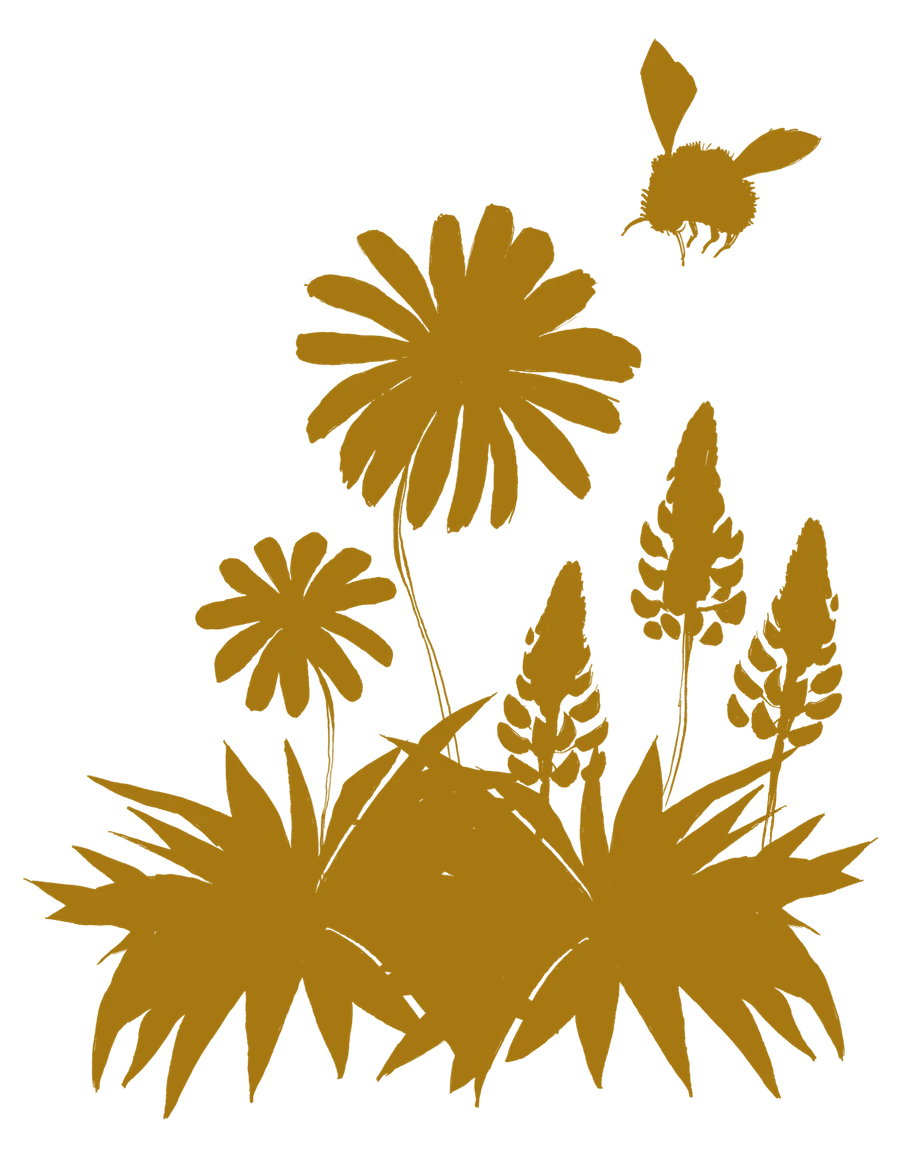
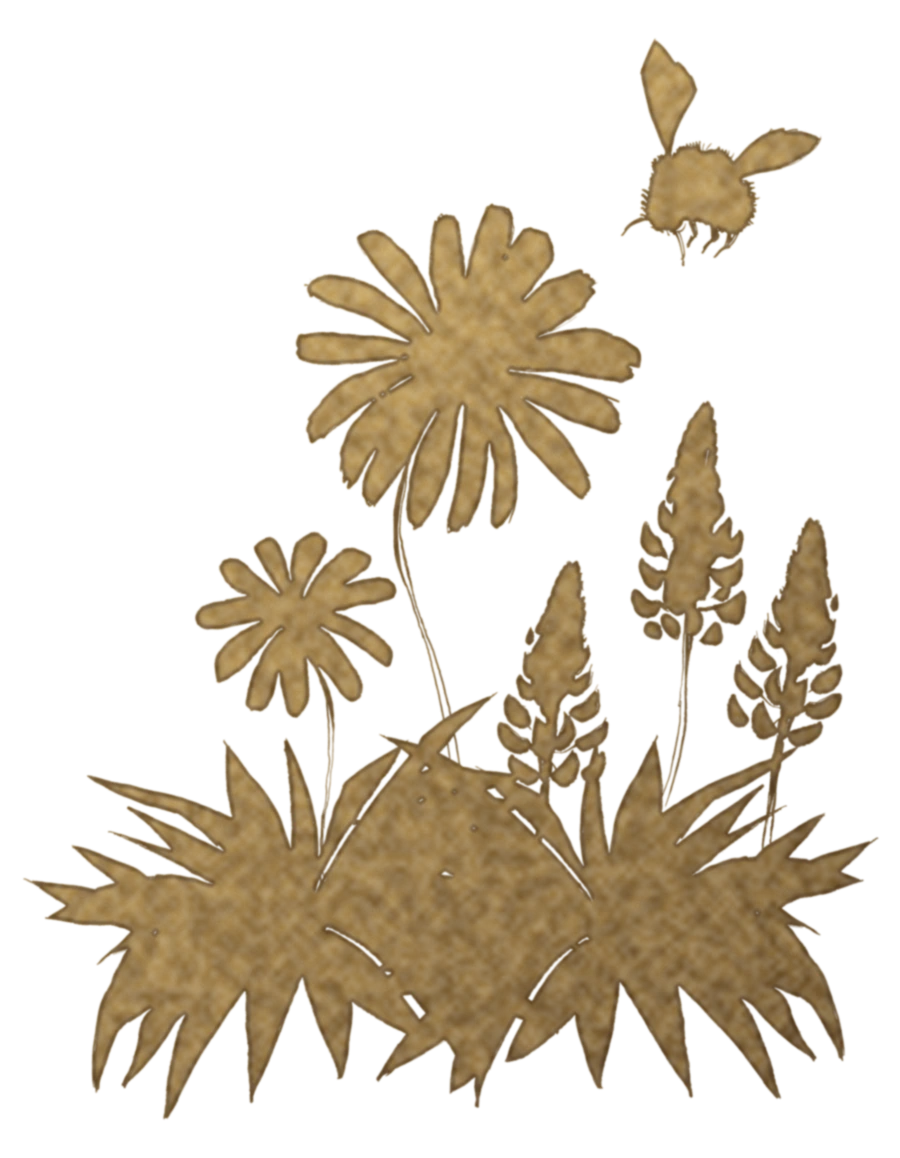
Restore hero's original bee/honeycomb decorations, repaint flower patch
The video and new corner clipart were meant to be additive, but the prior
commit accidentally dropped the existing floating bee illustrations,
honeycomb-branch corner art, and honey-drip divider — brought them all
back layered above the video overlay, repositioning the one bee that
would have collided with the new flower patch.

Also redid the flower patch recolor: the first pass was a flat solid
gold silhouette, not a match for the watercolor illustrations already on
site. Rebuilt it with directional shading, mottled pigment variation, and
feathered edges to read as an actual painted wash instead of a flat tint.

Hive-on-stilts scaled up and repositioned to bleed off the right edge,
matching the flower patch's off-frame treatment on the left.

diff --git a/components/Hero.tsx b/components/Hero.tsx
@@ -17,6 +17,39 @@ export default function Hero() {
       <div className="absolute inset-0 bg-ink-deep/55" />
 
       <Image
+        src="/images/illustrations/honeycomb-branch-1.webp"
+        alt=""
+        width={700}
+        height={253}
+        aria-hidden
+        className="pointer-events-none absolute -right-16 -top-6 hidden w-64 rotate-6 opacity-90 sm:block sm:w-80 md:w-[26rem]"
+      />
+      <Image
+        src="/images/illustrations/bee-2.webp"
+        alt=""
+        width={900}
+        height={632}
+        aria-hidden
+        className="pointer-events-none absolute left-[6%] top-20 hidden w-16 -rotate-12 sm:block sm:w-20 md:top-28 md:w-24"
+      />
+      <Image
+        src="/images/illustrations/bee-4.webp"
+        alt=""
+        width={2000}
+        height={1741}
+        aria-hidden
+        className="pointer-events-none absolute right-[10%] top-40 hidden w-20 rotate-12 sm:block sm:w-24 md:w-28"
+      />
+      <Image
+        src="/images/illustrations/bee-1.webp"
+        alt=""
+        width={1856}
+        height={1750}
+        aria-hidden
+        className="pointer-events-none absolute bottom-[26rem] left-[16%] hidden w-16 rotate-6 sm:block md:w-20"
+      />
+
+      <Image
         src="/images/illustrations/flower-patch-gold.webp"
         alt=""
         width={900}
@@ -30,7 +63,7 @@ export default function Hero() {
         width={900}
         height={1040}
         aria-hidden
-        className="pointer-events-none absolute right-4 bottom-0 hidden w-40 sm:block md:w-56"
+        className="pointer-events-none absolute -right-10 bottom-0 hidden w-64 sm:block md:w-80"
       />
 
       <div className="relative mx-auto max-w-4xl px-6 py-24 text-center sm:py-32">
@@ -48,7 +81,17 @@ export default function Hero() {
           hive-to-table treasures. It doesn&apos;t get more local than this.
         </p>
 
-        <div className="mt-8 flex flex-col items-center justify-center gap-4 sm:flex-row">
+        <div className="relative mx-auto mt-8 h-10 w-full max-w-md">
+          <Image
+            src="/images/illustrations/honey-drip.webp"
+            alt=""
+            fill
+            aria-hidden
+            className="pointer-events-none object-contain opacity-80"
+          />
+        </div>
+
+        <div className="mt-6 flex flex-col items-center justify-center gap-4 sm:flex-row">
           <Link
             href="/buzz-hub"
             className="w-full rounded-full bg-gold px-8 py-3 text-sm font-semibold text-ink-deep transition-colors hover:bg-gold-bright sm:w-auto"
